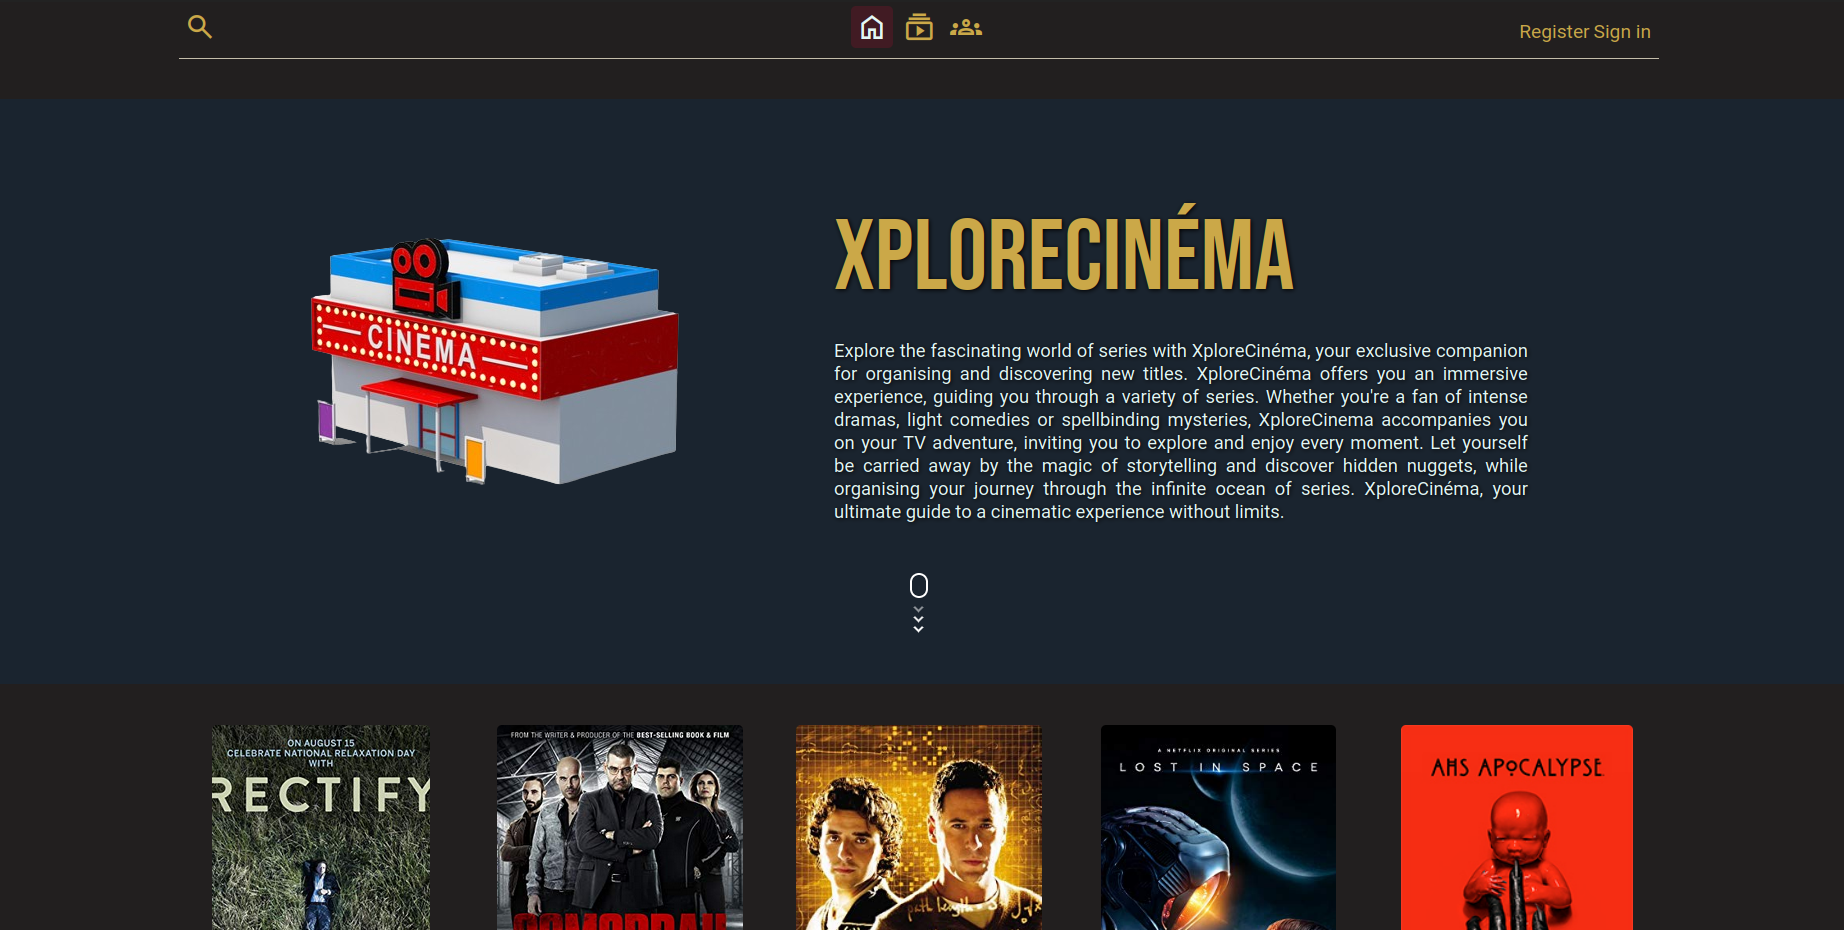
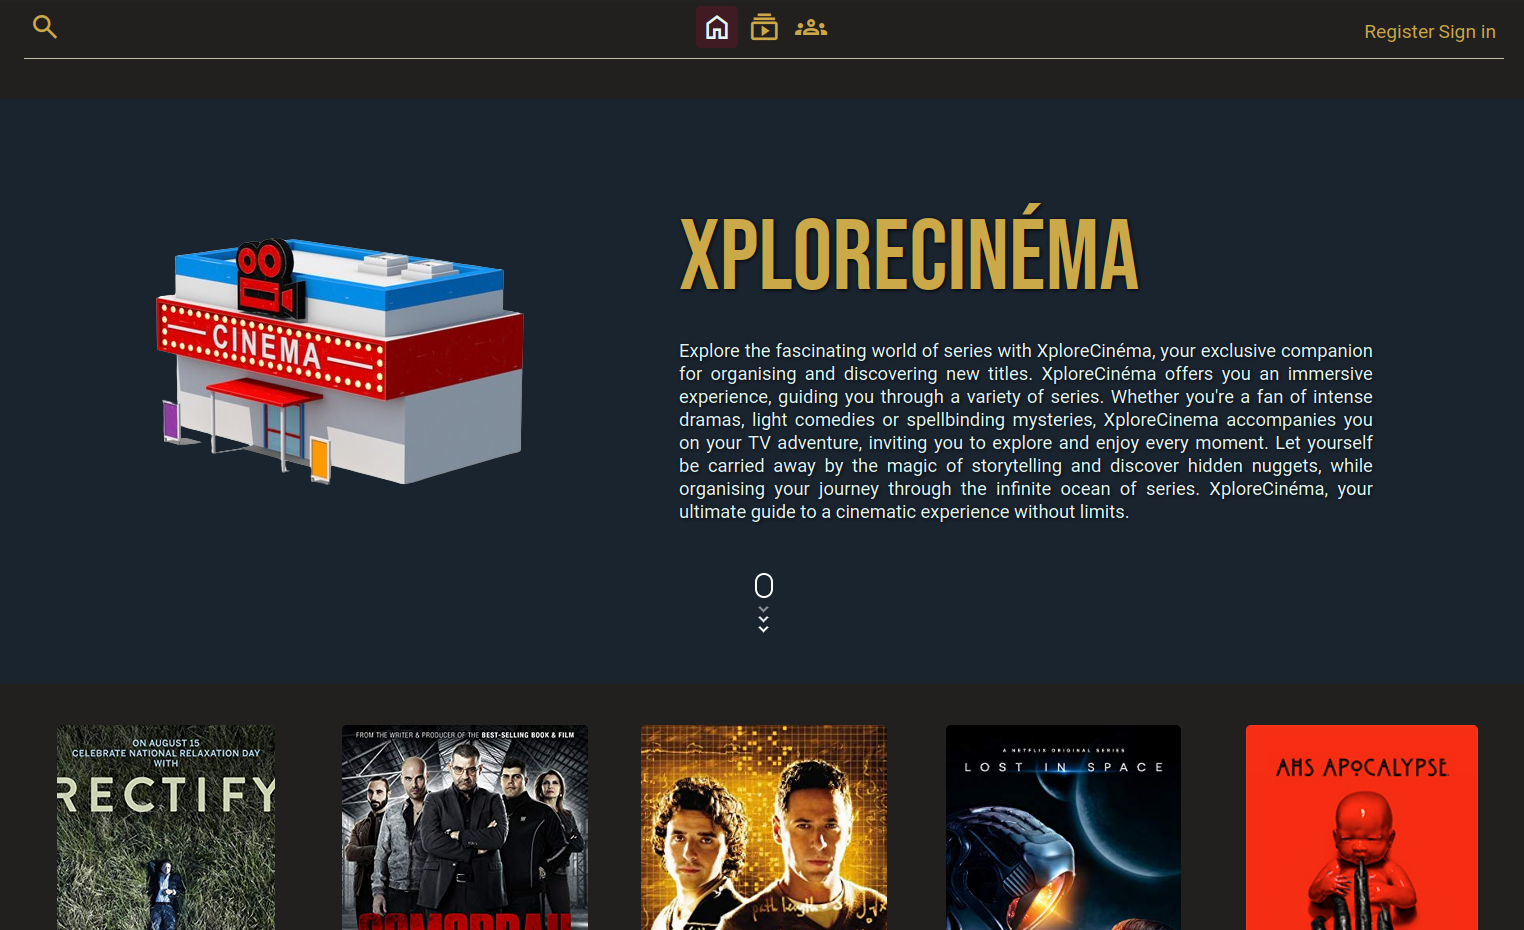
correction css

diff --git a/css/Portfolio.css b/css/Portfolio.css
@@ -21,9 +21,8 @@
     .header{
     
         background-color:#F9F7F3;
-        flex: 1;
         display: flex;
-        justify-content: left;
+        justify-content: start;
         
     }
 
